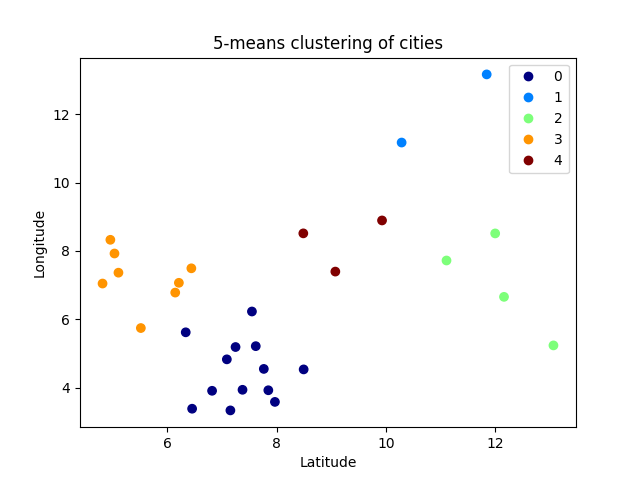
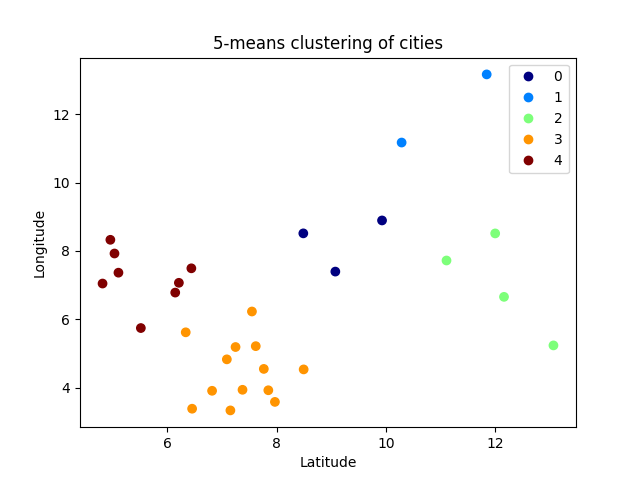
added seed

diff --git a/main.py b/main.py
@@ -9,7 +9,7 @@ cities = pd.read_csv('cities.csv')
 k = 5
 
 # Initialize the k-means model
-kmeans = KMeans(n_clusters=k)
+kmeans = KMeans(n_clusters=k, random_state = 0)
 
 # Fit the model to the data
 kmeans.fit(cities[['Latitude', 'Longitude']])
@@ -20,6 +20,7 @@ labels = kmeans.labels_
 # Print the cluster assignments
 print(labels)
 
-#print(dict(zip(cities.City.values, labels)))
+print(dict(zip(cities.City.values, labels)))
+
 pickle.dump(kmeans,open( "model.pkl", 'wb'))
 
